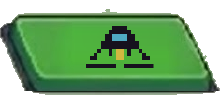
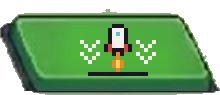
Botón aterrizar: ícono de cohete bajando al suelo y solo la luz que late, sin cartel

Changed region(s): [[0.3818, 0.2526, 0.7091, 0.8], [0.3545, 0.5474, 0.3818, 0.5895], [0.3545, 0.4211, 0.3818, 0.4632]]

diff --git a/src/scenes/monitor/landHint.ts b/src/scenes/monitor/landHint.ts
@@ -1,80 +1,40 @@
 import type Phaser from 'phaser';
 import { INTRO_BALANCE } from '../../config/balance';
-import { t } from '../../i18n';
-import { FONT_SIZE } from '../../ui/layout';
-import { cssColor, PALETTE } from '../../ui/palette';
-import { addText } from '../../ui/text';
+import { PALETTE } from '../../ui/palette';
 
 /**
- * Spec 19 — Makes the big green LAND button obvious: a name plate over it, and, while the ship
- * can land, a yellow arrow bouncing toward it and a glow on the button. When landing is locked
- * the plate turns gray and the arrow hides (pressing it still explains why on the screen).
+ * Spec 19 — Makes the big green LAND button call for a tap: while the ship can land, a soft
+ * yellow light around it breathes. When landing is locked the light is off (pressing it still
+ * explains why on the screen). The rocket landing on its icon says what it does.
  */
 export interface LandHint {
   setReady: (ready: boolean) => void;
 }
 
-const PLATE = { padding: 4, gap: 4, alpha: 0.85 } as const;
-const ARROW = { halfWidth: 7, height: 8, gap: 3, bouncePx: 4 } as const;
-const GLOW = { strength: 3, quality: 0.1, distance: 10 } as const;
-const DEPTH = 12;
+const GLOW = { color: PALETTE.sun, strength: 2, quality: 0.1, distance: 8 } as const;
 
 export function addLandHint(scene: Phaser.Scene, button: Phaser.GameObjects.Image): LandHint {
-  const centerX = button.x + button.displayWidth / 2;
-  const { label, plate } = addNamePlate(scene, centerX, button.y);
-  const arrowTip = plate.y - plate.height / 2 - ARROW.gap;
-  const arrow = drawArrow(scene, centerX, arrowTip);
-  scene.tweens.add({
-    targets: arrow,
-    y: ARROW.bouncePx,
-    yoyo: true,
-    repeat: -1,
-    duration: INTRO_BALANCE.landArrowBounceMs,
-    ease: 'Sine.InOut',
-  });
   const glow = button.preFX?.addGlow(
-    PALETTE.sun,
+    GLOW.color,
     GLOW.strength,
     0,
     false,
     GLOW.quality,
     GLOW.distance,
   );
+  if (glow) {
+    scene.tweens.add({
+      targets: glow,
+      outerStrength: 0,
+      yoyo: true,
+      repeat: -1,
+      duration: INTRO_BALANCE.landGlowPulseMs,
+      ease: 'Sine.InOut',
+    });
+  }
   return {
     setReady: (ready) => {
-      label.setColor(cssColor(ready ? PALETTE.white : PALETTE.metal));
-      arrow.setVisible(ready);
       if (glow) glow.active = ready;
     },
   };
-}
-
-/** "LAND" on a dark plate, just over the button. */
-function addNamePlate(
-  scene: Phaser.Scene,
-  centerX: number,
-  buttonTop: number,
-): { label: Phaser.GameObjects.Text; plate: Phaser.GameObjects.Rectangle } {
-  const label = addText(scene, centerX, 0, t('monitor.landButton'), { size: FONT_SIZE.small });
-  label.setY(buttonTop - PLATE.gap - PLATE.padding - label.height / 2).setDepth(DEPTH);
-  const plate = scene.add
-    .rectangle(centerX, label.y, label.width + PLATE.padding * 2, label.height + PLATE.padding * 2)
-    .setFillStyle(PALETTE.night, PLATE.alpha)
-    .setDepth(DEPTH - 1);
-  return { label, plate };
-}
-
-/** A yellow triangle pointing down, its tip just over the plate. */
-function drawArrow(scene: Phaser.Scene, x: number, tipY: number): Phaser.GameObjects.Graphics {
-  const arrow = scene.add.graphics().setDepth(DEPTH);
-  arrow.fillStyle(PALETTE.sun, 1);
-  arrow.fillTriangle(
-    x - ARROW.halfWidth,
-    tipY - ARROW.height,
-    x + ARROW.halfWidth,
-    tipY - ARROW.height,
-    x,
-    tipY,
-  );
-  return arrow;
 }

diff --git a/src/config/balance.ts b/src/config/balance.ts
@@ -205,8 +205,8 @@ export const INTRO_BALANCE = {
   itemSpinMinMs: 20_000,
   itemSpinMaxMs: 40_000,
   highlightPulseMs: 600,
-  /** The arrow over LAND bounces while the ship can land. */
-  landArrowBounceMs: 450,
+  /** The glow of the LAND button breathes while the ship can land (half a breath). */
+  landGlowPulseMs: 900,
   landingDurationMs: 6_000,
   /** After touchdown: a still moment, then a fade to black into the base. */
   landingStillMs: 700,

diff --git a/docs/DECISIONS.md b/docs/DECISIONS.md
@@ -22,9 +22,9 @@ Formato:
 
 ## 2026-11-15 — En la cabina, los destinos se eligen en el tablero del centro (spec 19)
 - Quién: C (Emilia), con Claude
-- Qué se decidió: el monitor del costado derecho de la cabina se reemplazó por un rincón con trajes colgados, casco, botas y mochila (editado con Gemini solo en esa zona; el resto del dibujo queda igual). Ahora se toca la pantalla del centro del tablero, debajo de la ventana, para abrir la consola de destinos; esa pantalla muestra el mini mapa de Marte y, durante el aterrizaje, la altura. La consola de destinos de cerca se adapta a ese lugar: la franja de arriba deja de ser un cuadro y pasa a ser el borde de abajo del parabrisas (con la misma foto real de Marte de la ventana), y el beige pasa a los grises claros del tablero. El botón ATERRIZAR tiene un cartel arriba y, cuando se puede aterrizar, una flecha que rebota y brillo. En la cabina flotan los objetos de `bocetos/cabina/flotantes/` (birome, bolsa de agua, llave, snack; el cohetito se sacó porque confundía) en gravedad cero: deriva lenta en línea recta, giro lento y rebote suave en los bordes.
+- Qué se decidió: el monitor del costado derecho de la cabina se reemplazó por un rincón con trajes colgados, casco, botas y mochila (editado con Gemini solo en esa zona; el resto del dibujo queda igual). Ahora se toca la pantalla del centro del tablero, debajo de la ventana, para abrir la consola de destinos; esa pantalla muestra el mini mapa de Marte y, durante el aterrizaje, la altura. La consola de destinos de cerca se adapta a ese lugar: la franja de arriba deja de ser un cuadro y pasa a ser el borde de abajo del parabrisas (con la misma foto real de Marte de la ventana), y el beige pasa a los grises claros del tablero. El botón ATERRIZAR tiene un ícono nuevo (un cohete bajando con el fuego hacia el suelo y flechitas hacia abajo, en vez del módulo de aterrizaje que no se entendía) y, cuando se puede aterrizar, una luz amarilla suave que late. En la cabina flotan los objetos de `bocetos/cabina/flotantes/` (birome, bolsa de agua, llave, snack; el cohetito se sacó porque confundía) en gravedad cero: deriva lenta en línea recta, giro lento y rebote suave en los bordes.
 - Por qué: al probarlo, lo intuitivo era tocar la pantalla del centro para elegir misión.
-- A quién afecta: solo el spec 19 (`cabina-fondo.png`, `layout.ts`: `CABIN_DASHBOARD_*` reemplaza a `CABIN_MONITOR_*`, que solo usaba el spec 19; textos `cabin.manualDone` y `cabin.again`; `consola-fondo.png`; clave nueva `monitor.landButton`; valores nuevos en `INTRO_BALANCE`).
+- A quién afecta: solo el spec 19 (`cabina-fondo.png`, `layout.ts`: `CABIN_DASHBOARD_*` reemplaza a `CABIN_MONITOR_*`, que solo usaba el spec 19; textos `cabin.manualDone` y `cabin.again`; `consola-fondo.png`; íconos de `botones/aterrizar*.png`; valores nuevos en `INTRO_BALANCE`).
 - ¿Avisado al equipo?: no todavía (va en el PR #33).
 
 ## 2026-11-15 — La intro en la cabina pasa a ser el spec 19
